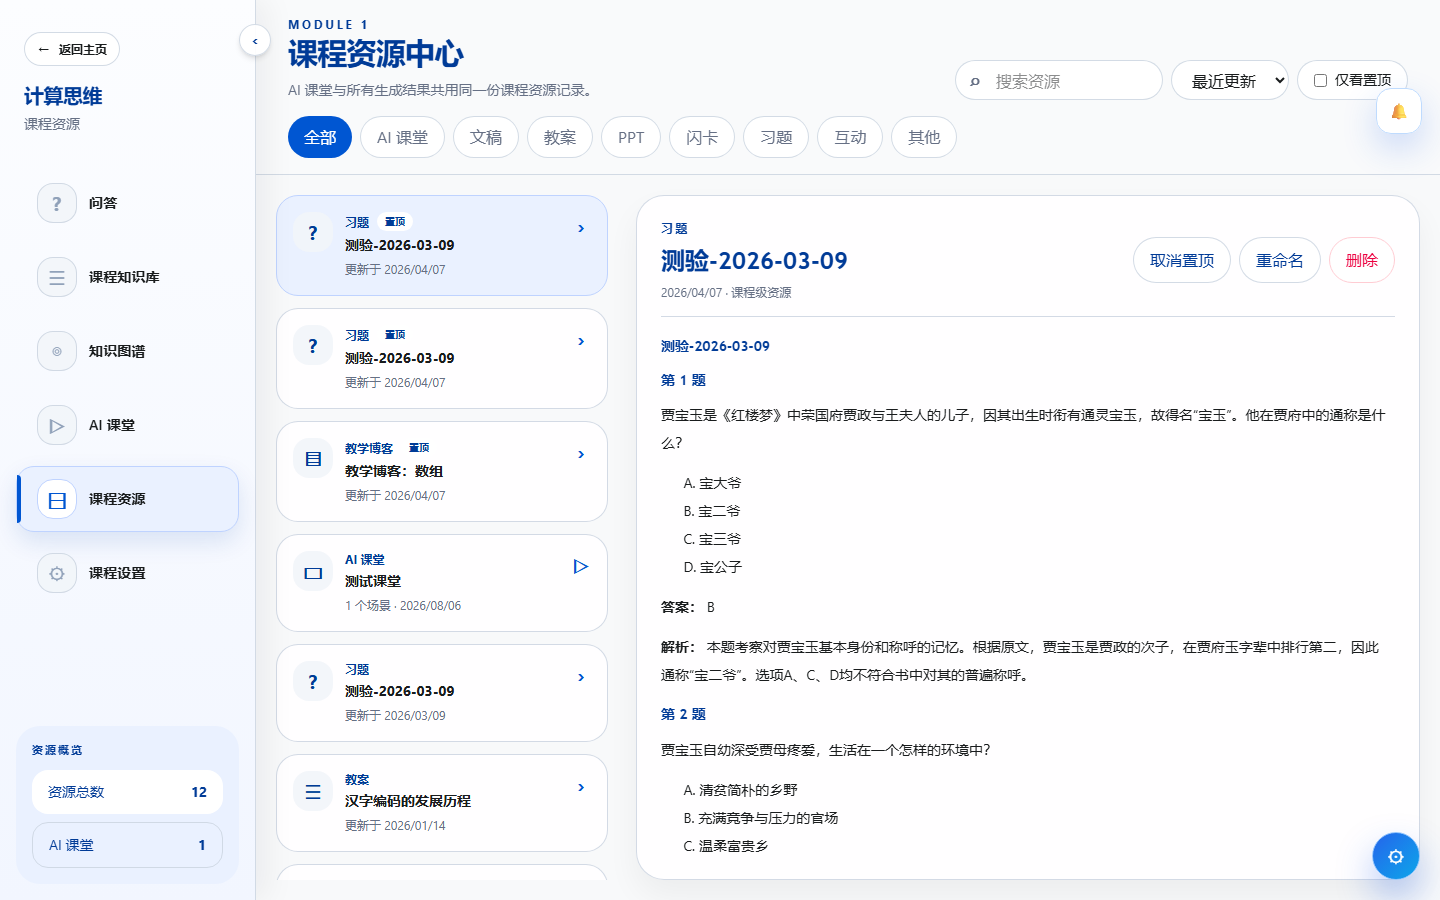
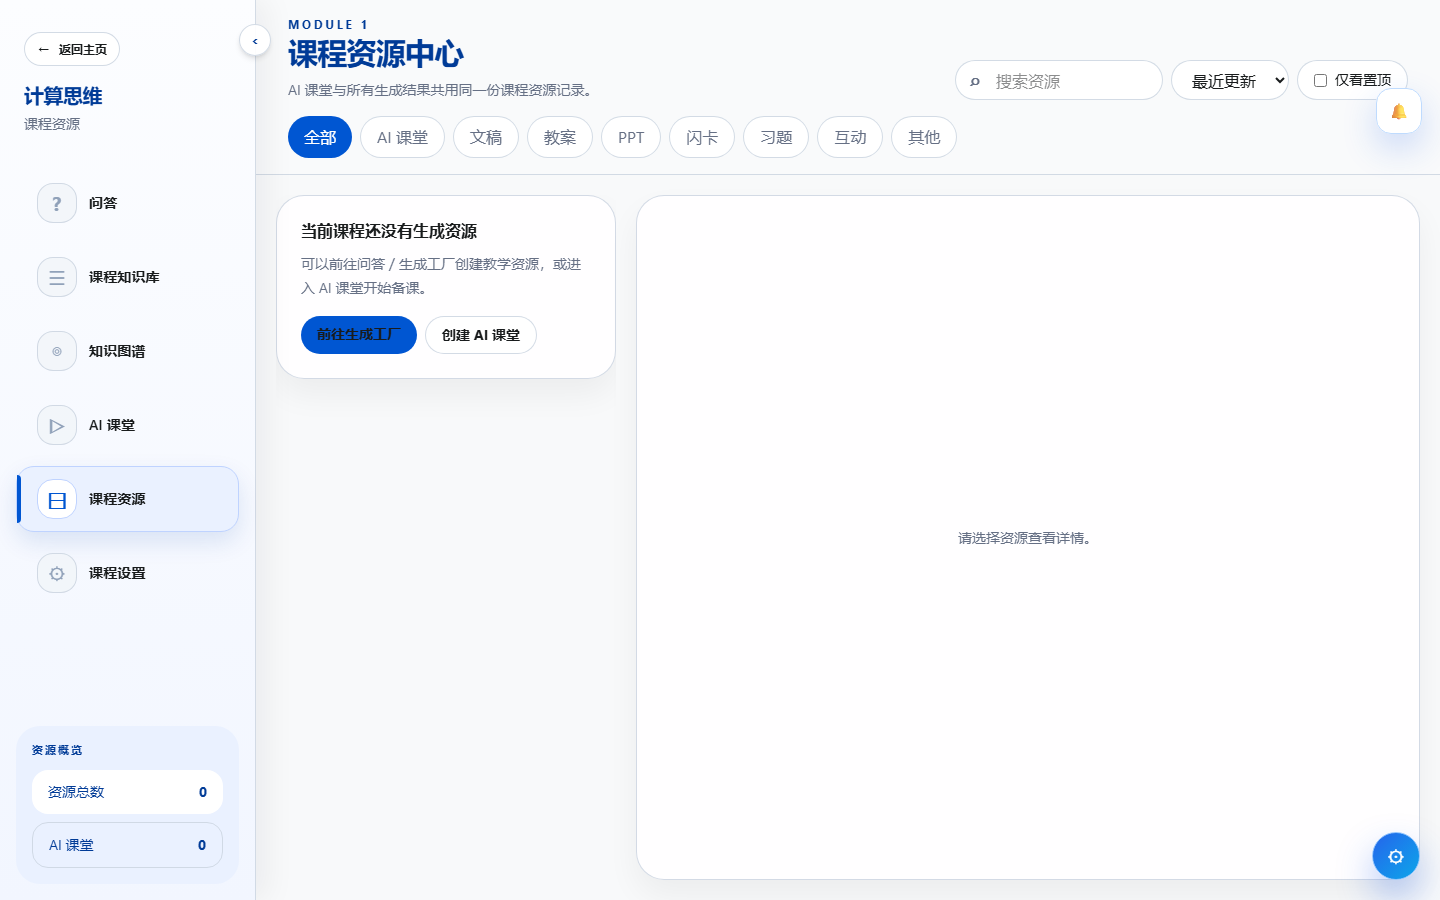
docs(teacher): record P0 and P1 acceptance

diff --git a/Edu_AI/docs/acceptance/2026-08-06-teacher-p0-p1-acceptance.md b/Edu_AI/docs/acceptance/2026-08-06-teacher-p0-p1-acceptance.md
@@ -1,0 +1,190 @@
+# 教师端 P0/P1 最终验收记录
+
+> 验收日期：2026-08-06  
+> 分支：`codex/teacher-p0-p1`  
+> 结论：P0/P1 约定范围已完成，可进入人工 review；全仓历史测试基线仍有已知失败，详见第 8 节。
+
+## 1. 交付结论
+
+本轮完成了教师端从“入口可见”到“结果可信且可恢复”的基础闭环：
+
+```text
+资料上传
+→ 文档处理状态可见
+→ 单文档检索可验证
+→ 生成任务可跨页面恢复
+→ 结果原子保存
+→ 课程资源统一管理
+→ 来源、任务和配置版本可追踪
+→ 用户与资源权限隔离
+→ 失败可诊断、取消或重试
+```
+
+没有新增课程级时间轴编辑器，没有改写 OpenMAIC 渲染主线，也没有处理低优先级的主 Agent 智能与长期记忆。
+
+## 2. P0 验收矩阵
+
+| 范围 | 结果 | 验收证据 |
+|---|---|---|
+| P0-IA 信息架构 | 通过 | 左侧固定为问答、课程知识库、知识图谱、AI 课堂、课程资源、课程设置；路由测试与 5 组工作台截图 |
+| P0-WS 工作台 | 通过 | 1280、1366、1440、1600、1920px 均无横向溢出；窄屏使用知识库/生成工厂抽屉，宽屏显示完整面板 |
+| P0-CR 课程资源 | 通过 | AI 课堂与其他资源共用总列表和统一 ID；PPT、闪卡、互动资源有独立筛选与预览适配器 |
+| P0-CL 在线课堂 | 通过 | 按页目录、16:9 舞台、当前页提词、播放/暂停/重播、翻页、全屏、演示和导出入口完整；页面无全课程 scrubber |
+| P0-JOB 统一任务 | 通过 | owner 隔离的 v2 `EduJob`、原子文件账本、分页、取消、重试、启动恢复、退避与多标签页单轮询租约 |
+| P0-STATE 状态系统 | 通过 | 加载、空、运行、部分成功、失败、取消和无权限均有中文状态；空对话不再显示 `No data` |
+| P0-ROUTE 路由 | 通过 | 课程 ID 写入 hash；缺少 ID 安全回到课程列表，不生成 `#undefined` |
+| P0-QA 质量门禁 | 通过 | 正式前端测试、P0/P1 后端定向测试、lint、生产构建和真实浏览器操作完成 |
+
+### P0 关键行为确认
+
+- AI 课堂既是独立授课入口，也是 `material_type=classroom` 的课程资源；两个入口复用同一 `classroom_id/material_id`。
+- 在线课堂只控制当前页。暂停会停止当前运行时并提供“重新播放当前页”，翻页会释放上一页语音、视频、焦点和定时器。
+- MP4 导出继续使用内部 `LessonTimeline`，不把全局时间轴暴露给在线授课界面。
+- 课堂、视频、报告、教案、博客、习题、PPT、闪卡、思维导图、小游戏和 RAG 处理均接入全局任务源；组件卸载不再删除任务。
+- 任务完成只通知并刷新资源，不擅自跳页或触发浏览器下载。
+
+## 3. P1 验收矩阵
+
+| 范围 | 结果 | 验收证据 |
+|---|---|---|
+| P1-RAG | 通过 | 文档生命周期、失败重建保留旧索引、删除清理、owner 校验和测试检索用例 |
+| P1-GEN 可信生成 | 通过 | 八类正式资源注册表；统一 `GenerationCommand` 校验 owner、课程、来源、幂等键；保存失败为 `partially_succeeded` |
+| P1-PPT/闪卡 | 通过 | PPT 恢复配置、大纲、后台生成、预览/导出；闪卡支持数量、难度、来源、逐张预览和正式资源保存 |
+| P1-RES 资源存储 | 通过 | v2 manifest、稳定 ID、owner、来源任务、配置快照、内容哈希、附件清单、原子写入和完整删除 |
+| P1-MIG 旧资源迁移 | 通过 | 默认 dry-run 的迁移工具；显式 owner 归属；`others` 正式类型迁移；损坏/冲突记录不静默删除 |
+| P1-CONFIG 配置中心 | 通过 | 对话、Embedding、TTS、搜索、PDF、课堂服务六类配置；草稿、验证、启用、停用、回滚和版本快照 |
+| P1-SECRET 密钥安全 | 通过 | AES-GCM 后端加密、响应掩码、浏览器密码输入不回填、sidecar 密钥不经过浏览器 |
+| P1-ACCOUNT 用户中心 | 通过 | 资料、头像、改密均来自真实后端；旧 SHA-256 登录后渐进升级 PBKDF2；公开注册不能申请管理员 |
+| P1-OBS 可观测性 | 通过 | 任务账本保留状态、步骤、错误、开始/结束时间；任务中心显示最近任务需关注率与平均耗时 |
+
+### 固定样例基线
+
+| 样例 | 期望 | 结果 |
+|---|---|---|
+| RAG：`快速排序如何分治` | 命中 `chunk-1`，页码为 1 | 通过 |
+| RAG：已有 `idx_active` 时重建失败 | 文档继续 `ready`，旧索引保持激活，记录 `RAG_INDEX_FAILED` | 通过 |
+| 生成：相同 owner + 幂等键重复提交 | 返回同一任务，不重复生成 | 通过 |
+| 生成：不同 owner 复用同一幂等键 | 相互隔离 | 通过 |
+| 生成：内容完成但资源保存失败 | 任务为 `partially_succeeded`，不报告完全成功 | 通过 |
+| 资源：12 路并发更新同一 manifest | JSON 完整、版本递增至 12 | 通过 |
+| 配置：未验证版本直接启用 | 拒绝启用 | 通过 |
+| 配置：新旧任务跨配置切换 | 新任务使用新快照，已运行任务保留原快照 | 通过 |
+
+说明：验收环境未提供真实外部模型、TTS、搜索、PDF 云服务或 OpenMAIC 供应商密钥，因此没有擅自产生外部调用和费用。供应商无关的业务闭环使用固定响应、故障注入和契约测试验证；真实供应商上线前仍应在目标部署环境逐个执行“测试连接”。
+
+## 4. 浏览器与视觉验收
+
+测试环境：Chromium headless，教师账号通过登录界面登录；页面控制台错误为 0。
+
+| 宽度 | 横向溢出 | 生成入口 | 结果 |
+|---:|---|---|---|
+| 1280 | 无 | 抽屉内 8 类 + AI 课堂 | 通过 |
+| 1366 | 无 | 抽屉内 8 类 + AI 课堂 | 通过 |
+| 1440 | 无 | 抽屉内 8 类 + AI 课堂 | 通过 |
+| 1600 | 无 | 固定面板 8 类 + AI 课堂 | 通过 |
+| 1920 | 无 | 固定面板 8 类 + AI 课堂 | 通过 |
+
+关键截图：
+
+- [1280px 工作台](screenshots/teacher-p0-p1/workspace-1280.png)
+- [1440px 生成工厂](screenshots/teacher-p0-p1/workspace-1440-factory.png)
+- [1920px 工作台](screenshots/teacher-p0-p1/workspace-1920.png)
+- [课程资源中心](screenshots/teacher-p0-p1/course-resources-1440.png)
+- [按页课堂播放器](screenshots/teacher-p0-p1/classroom-player-1440.png)
+- [全局任务中心](screenshots/teacher-p0-p1/global-task-center-1440.png)
+- [AI 服务配置](screenshots/teacher-p0-p1/runtime-settings-1440.png)
+- [密钥配置弹窗](screenshots/teacher-p0-p1/runtime-settings-modal-1440.png)
+
+浏览器操作同时确认：
+
+- PPT 卡片可获得键盘焦点，Enter 会执行卡片主操作；
+- 八类入口为报告、教案、教学博客、习题、PPT、闪卡、思维导图、小游戏；
+- 在线课堂播放后出现暂停，暂停后出现重新播放当前页；
+- 播放器不存在 `input[type=range]` 全课程拖动条；
+- 配置弹窗的 API Key 为未预填的 `password` 输入框；
+- 账号中心显示真实用户名 `teacher`，并可进入 AI 服务配置。
+
+## 5. 自动化验证
+
+| 命令/套件 | 结果 |
+|---|---|
+| `npm test` | 125/125 通过 |
+| P0/P1 后端定向套件 | 61/61 通过 |
+| 资源 manifest 与迁移隔离套件 | 9/9 通过 |
+| `npm run lint` | 0 error；82 个仓库既有 warning |
+| `npm run build` | 通过；仅有大 chunk 提示 |
+| `git diff --check` | 通过 |
+| 完整后端 `pytest api/src/tests -q` | 851 通过、21 失败、1 error；详见第 8 节 |
+
+P0/P1 后端定向套件覆盖任务状态机/API、RAG 生命周期、资源 manifest/权限/迁移、统一生成命令、运行配置、视频入库、课堂任务/视频导出和真实用户资料。
+
+## 6. 安全与故障检查
+
+| 检查项 | 结果 |
+|---|---|
+| 任务 owner 列表、详情、取消、重试隔离 | 通过 |
+| 文档和课程资源 owner 隔离 | 通过 |
+| 无 owner 历史资源默认不向认证用户公开 | 通过 |
+| 管理员迁移默认 dry-run、显式 `--apply` | 通过 |
+| 任务与资源并发写入不会产生半个 JSON | 通过 |
+| manifest 保存失败回滚暂存附件 | 通过 |
+| RAG 重建失败不切走可用旧索引 | 通过 |
+| API Key 密文落盘、API 只返回掩码 | 通过 |
+| 非管理员不能修改系统配置 | 通过 |
+| 配置验证错误不返回密钥或供应商响应体 | 通过 |
+| 错误旧密码不会修改账户 | 通过 |
+
+旧资源迁移命令：
+
+```powershell
+# 只预览，不写入
+.venv\Scripts\python scripts\migrate-course-materials.py <course_id> --owner <username>
+
+# review JSON 清单后显式执行
+.venv\Scripts\python scripts\migrate-course-materials.py <course_id> --owner <username> --apply
+```
+
+## 7. 架构落点
+
+- `src/stitch/teacherRoutes.ts`：课程级 hash 的唯一构造入口。
+- `src/components/teacher/studioActions.ts`：八类正式生成能力注册表。
+- `src/openmaic/pagePlaybackController.ts`：当前页运行时所有权和释放边界。
+- `src/jobs/`：全局任务 store、单调度器、多标签页租约、任务抽屉与质量概览。
+- `api/src/app/services/job_store.py`：owner-scoped v2 EduJob 原子账本。
+- `api/src/app/services/knowledge_document_service.py`：RAG 文档生命周期与索引版本切换。
+- `api/src/core/course_storage.py`：v2 资源 manifest、原子发布、权限、完整性和旧数据迁移。
+- `api/src/app/services/generation_command.py`：统一生成提交、幂等和部分成功语义。
+- `api/src/app/services/runtime_config_store.py`：不可变配置 revision、密钥加密和审计状态。
+- `api/src/app/services/runtime_config_resolver.py`：个人 → 系统 → 环境默认的解析与任务快照。
+
+## 8. 已知基线与非阻断债务
+
+### 8.1 完整后端套件
+
+最终完整套件为 `851 passed / 21 failed / 1 error`，不能宣称全仓 pytest 全绿：
+
+- 2 项旧测试要求删除 PPT 直达路由和全部 `html2ppt` 引用，与本轮“恢复既有 PPT 正式能力”的产品要求冲突；
+- 1 项旧课程范围测试依赖“无 owner 资源对任意认证用户可见”，已由 D-029 的安全边界替代；
+- 1 项旧 RAG 直接调用测试仍按同步单文档返回值断言，新接口已按 `202 document + job` 异步契约工作；
+- 其余失败集中于执行前已有的聊天/报告/Agent 兼容链路；`test_auth.py::test_get_me` 仍缺独立 fixture。
+
+这些失败均已保留在完整输出中，未通过删除测试、吞异常或撤销产品需求来伪造全绿。
+
+### 8.2 历史前端静态契约
+
+`tests/frontend/*.test.ts` 未接入项目正式 `npm test`。独立运行结果为 59/76 通过、17 项失败，失败主要断言旧 API URL、旧页面命名、旧私有轮询和 Tailwind v3 字符串。与本轮直接相关的导航、课堂、资源、任务、RAG、配置契约已迁入正式套件并通过；历史集合需要单独治理。
+
+### 8.3 代码质量与构建
+
+- ESLint 无 error，仍有 82 个既有 warning，主要是未使用变量、旧页面 Hook 依赖和 Fast Refresh 文件拆分提示；
+- 生产构建成功，主 bundle 和 PPTX/语法高亮资源仍有大 chunk 警告；本轮未扩大范围做全站拆包；
+- FastAPI 仍有一处 `on_event("startup")` 弃用警告，后续可迁移到 lifespan。
+
+## 9. Review 建议顺序
+
+1. 先看 1280px 工作台、生成工厂和按页课堂；
+2. 再看全局任务中心的刷新恢复、取消、重试与质量概览；
+3. 用固定文档验证 RAG 状态和测试检索；
+4. 检查 PPT/闪卡生成后的课程资源记录与来源追踪；
+5. 在测试供应商账号下配置对话、Embedding、TTS，执行测试连接、启用、停用和回滚；
+6. 最后 review [决策日志](../superpowers/decisions/2026-08-06-teacher-p0-p1-decisions.md)，重点关注 D-012、D-015、D-022、D-029 和 D-030。

diff --git a/Edu_AI/docs/superpowers/plans/2026-08-06-teacher-p0-p1-implementation.md b/Edu_AI/docs/superpowers/plans/2026-08-06-teacher-p0-p1-implementation.md
@@ -143,13 +143,13 @@ export interface PagePlaybackController {
 }
 ```
 
-- [ ] RED：翻页停止上一页语音、媒体、焦点和计时器。
-- [ ] RED：重播只重播当前页；不暴露全课程 scrubber。
-- [ ] GREEN：实现目录 + 自适应 16:9 舞台 + 当前页辅助面板。
-- [ ] GREEN：实现浏览、演示、全屏及当前页播放控制。
-- [ ] GREEN：保留内部 LessonTimeline 供 MP4 导出使用。
-- [ ] 验证单元测试、PPTX/视频既有回归和浏览器操作。
-- [ ] 提交并 push。
+- [x] RED：翻页停止上一页语音、媒体、焦点和计时器。
+- [x] RED：重播只重播当前页；不暴露全课程 scrubber。
+- [x] GREEN：实现目录 + 自适应 16:9 舞台 + 当前页辅助面板。
+- [x] GREEN：实现浏览、演示、全屏及当前页播放控制。
+- [x] GREEN：保留内部 LessonTimeline 供 MP4 导出使用。
+- [x] 验证单元测试、PPTX/视频既有回归和浏览器操作。
+- [x] 提交并 push。
 
 ### Task 6：后端 EduJob 账本
 
@@ -177,12 +177,12 @@ class EduJob(BaseModel):
     parent_job_id: str | None = None
 ```
 
-- [ ] RED：状态转换、owner 过滤、列表分页、取消、重试和旧记录兼容。
-- [ ] RED：并发写入和故障注入不能产生半个 JSON。
-- [ ] GREEN：原子写入、目录锁、版本化兼容读取。
-- [ ] GREEN：实现列表、详情、取消、重试接口；身份从后端注入。
-- [ ] 验证定向 pytest 与课堂任务回归。
-- [ ] 提交并 push。
+- [x] RED：状态转换、owner 过滤、列表分页、取消、重试和旧记录兼容。
+- [x] RED：并发写入和故障注入不能产生半个 JSON。
+- [x] GREEN：原子写入、目录锁、版本化兼容读取。
+- [x] GREEN：实现列表、详情、取消、重试接口；身份从后端注入。
+- [x] 验证定向 pytest 与课堂任务回归。
+- [x] 提交并 push。
 
 ### Task 7：前端全局任务管理器
 
@@ -195,13 +195,13 @@ class EduJob(BaseModel):
 - Modify: `src/stitch/App.tsx`
 - Create: `src/jobs/jobStore.test.ts`
 
-- [ ] RED：启动恢复、去重轮询、退避、终态通知和课程资源失效刷新。
-- [ ] RED：多标签页只有一个活动轮询领导者或等效去重保证。
-- [ ] GREEN：实现后端任务为唯一事实来源的 Zustand store。
-- [ ] GREEN：实现全局调度器、任务中心抽屉和页面查询 hook。
-- [ ] GREEN：组件卸载不删除任务，重新登录按用户恢复。
-- [ ] 验证定向测试、前端测试和浏览器刷新恢复。
-- [ ] 提交并 push。
+- [x] RED：启动恢复、去重轮询、退避、终态通知和课程资源失效刷新。
+- [x] RED：多标签页只有一个活动轮询领导者或等效去重保证。
+- [x] GREEN：实现后端任务为唯一事实来源的 Zustand store。
+- [x] GREEN：实现全局调度器、任务中心抽屉和页面查询 hook。
+- [x] GREEN：组件卸载不删除任务，重新登录按用户恢复。
+- [x] 验证定向测试、前端测试和浏览器刷新恢复。
+- [x] 提交并 push。
 
 ### Task 8：迁移现有长任务并统一状态
 
@@ -214,12 +214,12 @@ class EduJob(BaseModel):
 - Create: `src/components/shared/AsyncState.tsx`
 - Create: `tests/frontend/teacher-global-job-migration.test.ts`
 
-- [ ] RED：核心组件不得再以私有 interval 作为任务权威。
-- [ ] RED：加载、空、失败、部分成功、无权限均有教师可读文案和恢复动作。
-- [ ] GREEN：课堂、视频、报告、习题、游戏、博客、PPT、闪卡、RAG 接入全局任务。
-- [ ] GREEN：删除重复通知和本地任务权威状态。
-- [ ] 验证全局任务与核心页面回归。
-- [ ] 提交并 push，完成 P0 代码冻结。
+- [x] RED：核心组件不得再以私有 interval 作为任务权威。
+- [x] RED：加载、空、失败、部分成功、无权限均有教师可读文案和恢复动作。
+- [x] GREEN：课堂、视频、报告、习题、游戏、博客、PPT、闪卡、RAG 接入全局任务。
+- [x] GREEN：删除重复通知和本地任务权威状态。
+- [x] 验证全局任务与核心页面回归。
+- [x] 提交并 push，完成 P0 代码冻结。
 
 ### Task 9：RAG 文档状态和测试检索
 
@@ -240,12 +240,12 @@ uploaded -> parsing -> chunking -> embedding -> ready
 ready -> rebuilding -> ready (old index remains active until swap)
 ```
 
-- [ ] RED：上传返回 document + job，失败不标 ready。
-- [ ] RED：重建失败保留旧索引，删除清理 chunk 和派生物。
-- [ ] GREEN：持久化状态、阶段、错误、索引版本和统计。
-- [ ] GREEN：实现失败重试、单文档测试检索和引用定位。
-- [ ] 验证权限、生命周期和前端状态。
-- [ ] 提交并 push。
+- [x] RED：上传返回 document + job，失败不标 ready。
+- [x] RED：重建失败保留旧索引，删除清理 chunk 和派生物。
+- [x] GREEN：持久化状态、阶段、错误、索引版本和统计。
+- [x] GREEN：实现失败重试、单文档测试检索和引用定位。
+- [x] 验证权限、生命周期和前端状态。
+- [x] 提交并 push。
 
 ### Task 10：统一课程资源与原子存储
 
@@ -257,13 +257,13 @@ ready -> rebuilding -> ready (old index remains active until swap)
 - Create: `api/src/tests/core/test_course_material_manifest.py`
 - Create: `api/src/tests/core/test_course_material_permissions.py`
 
-- [ ] RED：统一 ID、owner、版本、来源、任务、配置快照和 manifest。
-- [ ] RED：并发写入、保存失败、完整删除、越权和旧数据读取。
-- [ ] GREEN：临时目录写入、校验、原子发布、索引更新。
-- [ ] GREEN：正式类型不落入 `others`，AI 课堂 ID 同源。
-- [ ] GREEN：列表、详情、重命名、置顶、删除和完整性检查。
-- [ ] 验证存储故障注入与 API 权限。
-- [ ] 提交并 push。
+- [x] RED：统一 ID、owner、版本、来源、任务、配置快照和 manifest。
+- [x] RED：并发写入、保存失败、完整删除、越权和旧数据读取。
+- [x] GREEN：临时目录写入、校验、原子发布、索引更新。
+- [x] GREEN：正式类型不落入 `others`，AI 课堂 ID 同源。
+- [x] GREEN：列表、详情、重命名、置顶、删除和完整性检查。
+- [x] 验证存储故障注入与 API 权限。
+- [x] 提交并 push。
 
 ### Task 11：八类可信生成与 PPT/闪卡闭环
 
@@ -349,9 +349,9 @@ active -> rollback to previous active
 - Update: `docs/superpowers/decisions/2026-08-06-teacher-p0-p1-decisions.md`
 - Create: `docs/acceptance/2026-08-06-teacher-p0-p1-acceptance.md`
 
-- [ ] 运行全部前端测试、lint、生产构建。
-- [ ] 运行全部后端测试。
-- [ ] 运行 1280/1366/1440/1600/1920 浏览器验收并保存截图。
-- [ ] 执行权限、密钥泄漏、并发写入和任务恢复检查。
-- [ ] 对照 P0/P1 SPEC 每一项完成定义并记录证据。
-- [ ] 提交并 push 最终验收记录。
+- [x] 运行全部前端测试、lint、生产构建。
+- [x] 运行全部后端测试。
+- [x] 运行 1280/1366/1440/1600/1920 浏览器验收并保存截图。
+- [x] 执行权限、密钥泄漏、并发写入和任务恢复检查。
+- [x] 对照 P0/P1 SPEC 每一项完成定义并记录证据。
+- [x] 提交并 push 最终验收记录。
